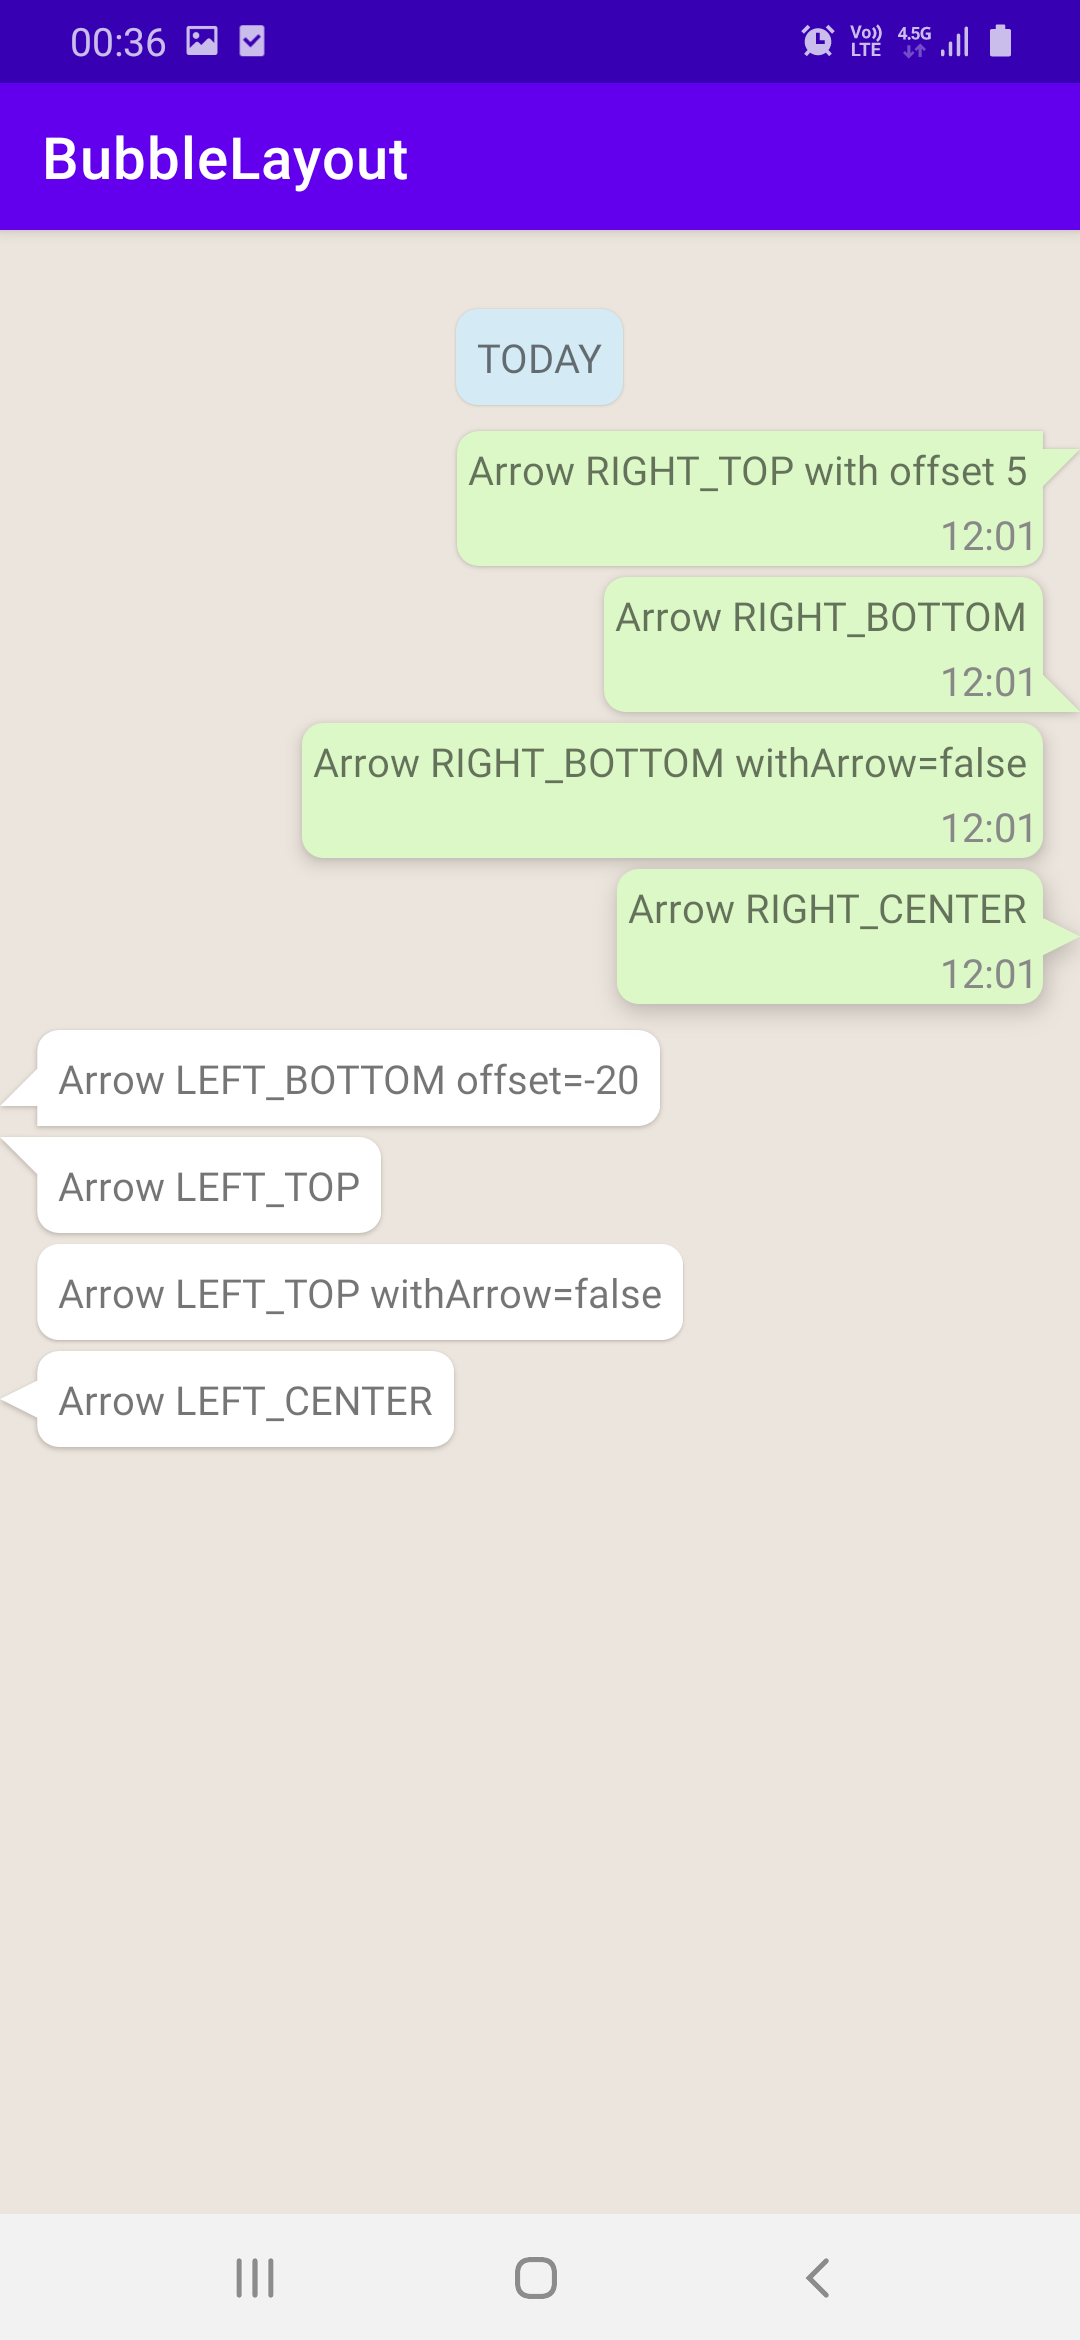
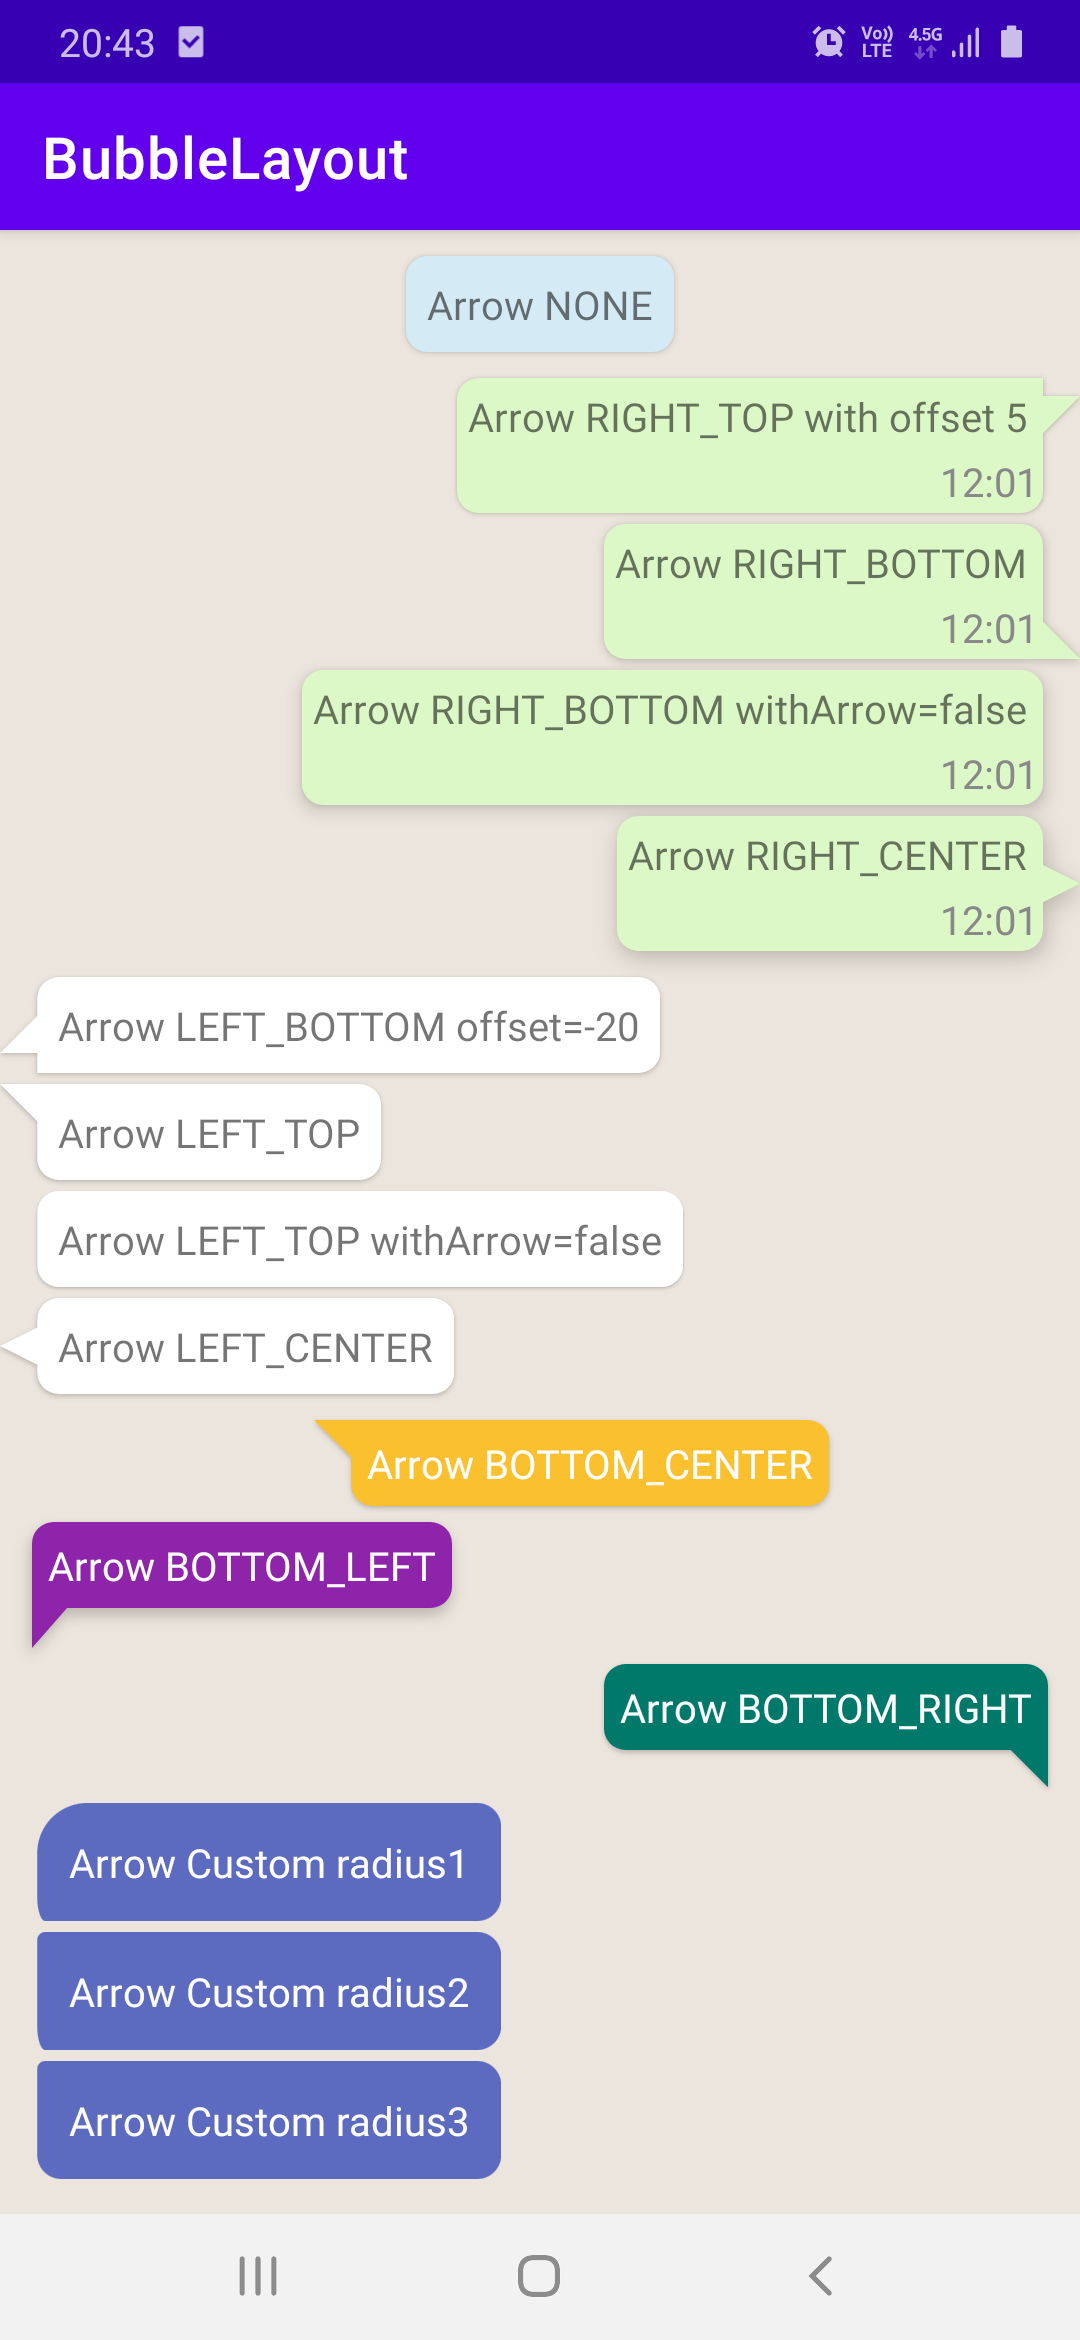
Add bubble with bottom arrow

diff --git a/app/src/main/java/com/smarttoolfactory/bubblelayout/MainActivity.kt b/app/src/main/java/com/smarttoolfactory/bubblelayout/MainActivity.kt
@@ -15,6 +15,7 @@ class MainActivity : AppCompatActivity() {
     }
 
     private fun drawBubbles() {
+
         val dateBubble = findViewById<BubbleLayout>(R.id.bubbleDate)
         dateBubble.modifier.apply {
             arrowAlignment = ArrowAlignment.NONE
@@ -104,14 +105,98 @@ class MainActivity : AppCompatActivity() {
         receiverBubble4.update(modifierR4)
 
 
-        val bubbleBottom1 = findViewById<BubbleLayout>(R.id.bubbleViewBottom)
+        /*
+            Bottom Bubbles
+         */
+        val bubbleBottom1 = findViewById<BubbleLayout>(R.id.bubbleViewBottom1)
 
         val modifierBottom1 = bubbleBottom1.modifier.apply {
-            backgroundColor = Color.rgb(41,182,246)
+            backgroundColor = Color.rgb(251, 192, 45)
+            arrowAlignment = ArrowAlignment.LEFT_TOP
+
+        }
+        bubbleBottom1.update(modifierBottom1)
+
+        val bubbleBottom2 = findViewById<BubbleLayout>(R.id.bubbleViewBottom2)
+        val modifierBottom2 = bubbleBottom2.modifier.apply {
+            backgroundColor = Color.rgb(142, 36, 170)
             arrowAlignment = ArrowAlignment.BOTTOM_LEFT
-            arrowShape = ArrowShape.TRIANGLE_ISOSCELES
+            arrowShape = ArrowShape.TRIANGLE_RIGHT
+            arrowWidth = 35f
+            arrowHeight = 40f
+        }
+        bubbleBottom2.update(modifierBottom2)
+
+        val bubbleBottom3 = findViewById<BubbleLayout>(R.id.bubbleViewBottom3)
+        val modifierBottom3 = bubbleBottom3.modifier.apply {
+            backgroundColor = Color.rgb(0, 121, 107)
+            arrowAlignment = ArrowAlignment.BOTTOM_RIGHT
+            arrowShape = ArrowShape.TRIANGLE_RIGHT
+        }
+        bubbleBottom3.update(modifierBottom3)
+
+
+        /*
+            Custom corner radius
+         */
+
+        val bubbleCustomRad1 = findViewById<BubbleLayout>(R.id.bubbleCustomRad1)
+
+        val modifierCR1 = bubbleCustomRad1.modifier.apply {
+            backgroundColor = Color.rgb(92,107,192)
+            arrowAlignment = ArrowAlignment.LEFT_TOP
+            withArrow = false
+            cornerRadius = CornerRadius(
+                topLeftX = 50f,
+                topLeftY = 50f,
+                topRightX = 24f,
+                topRightY = 24f,
+                bottomLeftX = 8f,
+                bottomLeftY = 8f,
+                bottomRightX = 24f,
+                bottomRightY = 24f
+            )
         }
 
-        bubbleBottom1.update(modifierBottom1)
+        bubbleCustomRad1.update(modifierCR1)
+
+        val bubbleCustomRad2 = findViewById<BubbleLayout>(R.id.bubbleCustomRad2)
+
+        val modifierCR2 = bubbleCustomRad2.modifier.apply {
+            backgroundColor = Color.rgb(92,107,192)
+            arrowAlignment = ArrowAlignment.LEFT_TOP
+            withArrow = false
+
+            cornerRadius = CornerRadius(
+                topLeftX = 8f,
+                topLeftY = 8f,
+                topRightX = 24f,
+                topRightY = 24f,
+                bottomLeftX = 8f,
+                bottomLeftY = 8f,
+                bottomRightX = 24f,
+                bottomRightY = 24f
+            )
+        }
+        bubbleCustomRad2.update(modifierCR2)
+
+        val bubbleCustomRad3 = findViewById<BubbleLayout>(R.id.bubbleCustomRad3)
+        val modifierCR3 = bubbleCustomRad3.modifier.apply {
+            backgroundColor = Color.rgb(92,107,192)
+            arrowAlignment = ArrowAlignment.LEFT_TOP
+            withArrow = false
+            cornerRadius = CornerRadius(
+                topLeftX = 8f,
+                topLeftY = 8f,
+                topRightX = 24f,
+                topRightY = 24f,
+                bottomLeftX = 24f,
+                bottomLeftY = 24f,
+                bottomRightX = 24f,
+                bottomRightY = 24f
+            )
+        }
+        bubbleCustomRad3.update(modifierCR3)
+
     }
 }

diff --git a/app/src/main/java/com/smarttoolfactory/bubblelayout/ArrowPath.kt b/app/src/main/java/com/smarttoolfactory/bubblelayout/ArrowPath.kt
@@ -264,14 +264,13 @@ fun createVerticalArrowPath(path: Path, contentRect: RectF, modifier: Modifier) 
             when (arrowShape) {
 
                 ArrowShape.TRIANGLE_RIGHT -> {
-                    // Draw horizontal line to left
                     path.lineTo(arrowLeft, arrowBottom)
-                    path.lineTo(arrowRight, arrowBottom)
+                    path.lineTo(arrowRight, contentBottom)
                 }
 
                 ArrowShape.TRIANGLE_ISOSCELES -> {
                     path.lineTo(arrowLeft + arrowWidth / 2f, arrowBottom)
-                    path.lineTo(arrowRight, arrowBottom)
+                    path.lineTo(arrowRight, contentBottom)
                 }
 
                 ArrowShape.CURVED -> {
@@ -288,14 +287,13 @@ fun createVerticalArrowPath(path: Path, contentRect: RectF, modifier: Modifier) 
             when (arrowShape) {
 
                 ArrowShape.TRIANGLE_RIGHT -> {
-                    // Draw horizontal line to left
-                    path.lineTo(arrowLeft, arrowBottom)
                     path.lineTo(arrowRight, arrowBottom)
+                    path.lineTo(arrowRight, contentBottom)
                 }
 
                 ArrowShape.TRIANGLE_ISOSCELES -> {
                     path.lineTo(arrowLeft + arrowWidth / 2f, arrowBottom)
-                    path.lineTo(arrowRight, arrowBottom)
+                    path.lineTo(arrowRight, contentBottom)
                 }
 
                 ArrowShape.CURVED -> {
@@ -303,6 +301,7 @@ fun createVerticalArrowPath(path: Path, contentRect: RectF, modifier: Modifier) 
                 }
             }
         }
+
 
         ArrowAlignment.BOTTOM_CENTER -> {
 
@@ -313,12 +312,12 @@ fun createVerticalArrowPath(path: Path, contentRect: RectF, modifier: Modifier) 
                 ArrowShape.TRIANGLE_RIGHT -> {
                     // Draw horizontal line to left
                     path.lineTo(arrowLeft, arrowBottom)
-                    path.lineTo(arrowRight, arrowBottom)
+                    path.lineTo(arrowRight, contentBottom)
                 }
 
                 ArrowShape.TRIANGLE_ISOSCELES -> {
                     path.lineTo(arrowLeft + arrowWidth / 2f, arrowBottom)
-                    path.lineTo(arrowRight, arrowBottom)
+                    path.lineTo(arrowRight, contentBottom)
                 }
 
                 ArrowShape.CURVED -> {
@@ -345,10 +344,10 @@ private fun calculateArrowLeftPosition(
     val alignment = modifier.arrowAlignment
 
     var arrowLeft = when {
-        isHorizontalTopAligned(alignment) -> {
+        isVerticalLeftAligned(alignment) -> {
             contentLeft + modifier.arrowOffsetX
         }
-        isHorizontalBottomAligned(alignment) -> {
+        isVerticalRightAligned(alignment) -> {
             contentWidth + modifier.arrowOffsetX - arrowWidth
         }
         else -> {
@@ -409,6 +408,21 @@ internal fun isArrowHorizontalPosition(alignment: ArrowAlignment): Boolean {
 internal fun isVerticalBottomAligned(alignment: ArrowAlignment): Boolean {
     return alignment == ArrowAlignment.BOTTOM_LEFT || alignment == ArrowAlignment.BOTTOM_RIGHT || alignment == ArrowAlignment.BOTTOM_CENTER
 }
+
+/**
+ * Arrow is on left side of the bubble
+ */
+internal fun isVerticalLeftAligned(alignment: ArrowAlignment): Boolean {
+    return (alignment == ArrowAlignment.BOTTOM_LEFT)
+}
+
+/**
+ * Arrow is on right side of the bubble
+ */
+internal fun isVerticalRightAligned(alignment: ArrowAlignment): Boolean {
+    return (alignment == ArrowAlignment.BOTTOM_RIGHT)
+}
+
 
 /**
  * Check if arrow is vertically positioned either on top or at the bottom of bubble

diff --git a/app/src/main/java/com/smarttoolfactory/bubblelayout/BubbleLayout.kt b/app/src/main/java/com/smarttoolfactory/bubblelayout/BubbleLayout.kt
@@ -75,8 +75,6 @@ class BubbleLayout : FrameLayout {
         }
 
 
-
-
         setWillNotDraw(false)
     }
 
@@ -121,7 +119,12 @@ class BubbleLayout : FrameLayout {
             val child: View? = getChildAt(i)
             child?.measure(widthMeasureSpec, heightMeasureSpec)
             child?.let { child ->
-                println("🔥 onMeasure child #$i measuredWidth: ${child.measuredWidth}, width: ${child.width}, measuredHeight: ${child.measuredHeight}, height: ${child.height}")
+                println(
+                    "🔥 onMeasure child #$i, " +
+                            "measuredWidth: ${child.measuredWidth}, width: ${child.width}, " +
+                            "measuredHeight: ${child.measuredHeight}, height: ${child.height}"
+                )
+
                 if (child.measuredWidth > maxContentWidth) maxContentWidth = child.measuredWidth
                 maxContentHeight += child.measuredHeight
             }
@@ -136,11 +139,9 @@ class BubbleLayout : FrameLayout {
             desiredWidth += modifier.arrowWidth.toInt()
         }
 
-
-        if (isVerticalBottomAligned) maxContentHeight += modifier.arrowHeight.toInt()
-
-        val desiredHeight: Int =
+        var desiredHeight: Int =
             resolveSize(maxContentHeight, heightMeasureSpec) + paddingTop + paddingBottom
+        if (isVerticalBottomAligned) desiredHeight += modifier.arrowHeight.toInt()
 
         when {
             isHorizontalLeftAligned -> {
@@ -168,7 +169,7 @@ class BubbleLayout : FrameLayout {
                     0f,
                     0f,
                     maxContentWidth.toFloat() + paddingStart + paddingEnd,
-                    maxContentHeight.toFloat() + modifier.arrowHeight+ paddingTop + paddingBottom
+                    maxContentHeight.toFloat() + paddingTop + paddingBottom
                 )
             }
 
@@ -261,10 +262,10 @@ class BubbleLayout : FrameLayout {
 
         canvas.drawPath(path, paint)
 
-        paintDebug.color = Color.RED
-        canvas.drawRect(rectBubble, paintDebug)
-        paintDebug.color = Color.BLUE
-        canvas.drawRect(rectContent, paintDebug)
+//        paintDebug.color = Color.RED
+//        canvas.drawRect(rectBubble, paintDebug)
+//        paintDebug.color = Color.BLUE
+//        canvas.drawRect(rectContent, paintDebug)
 
         if (modifier.shadowStyle == ShadowStyle.ELEVATION) {
             outlineProvider = outlineProvider
@@ -380,7 +381,7 @@ private fun getRoundedRectPath(
                 path.addRoundRect(contentRect, radii, Path.Direction.CW)
 
             }
-            LEFT_BOTTOM -> {
+            LEFT_BOTTOM, BOTTOM_LEFT -> {
 
                 val radiusBottomLeftX =
                     if (modifier.withArrow && modifier.arrowOffsetY < radiusY) 0f else radiusX
@@ -421,7 +422,7 @@ private fun getRoundedRectPath(
                 path.addRoundRect(contentRect, radii, Path.Direction.CW)
             }
 
-            RIGHT_BOTTOM -> {
+            RIGHT_BOTTOM, BOTTOM_RIGHT -> {
 
                 val radiusBottomRightX =
                     if (modifier.withArrow && modifier.arrowOffsetY < radiusY) 0f else radiusX
